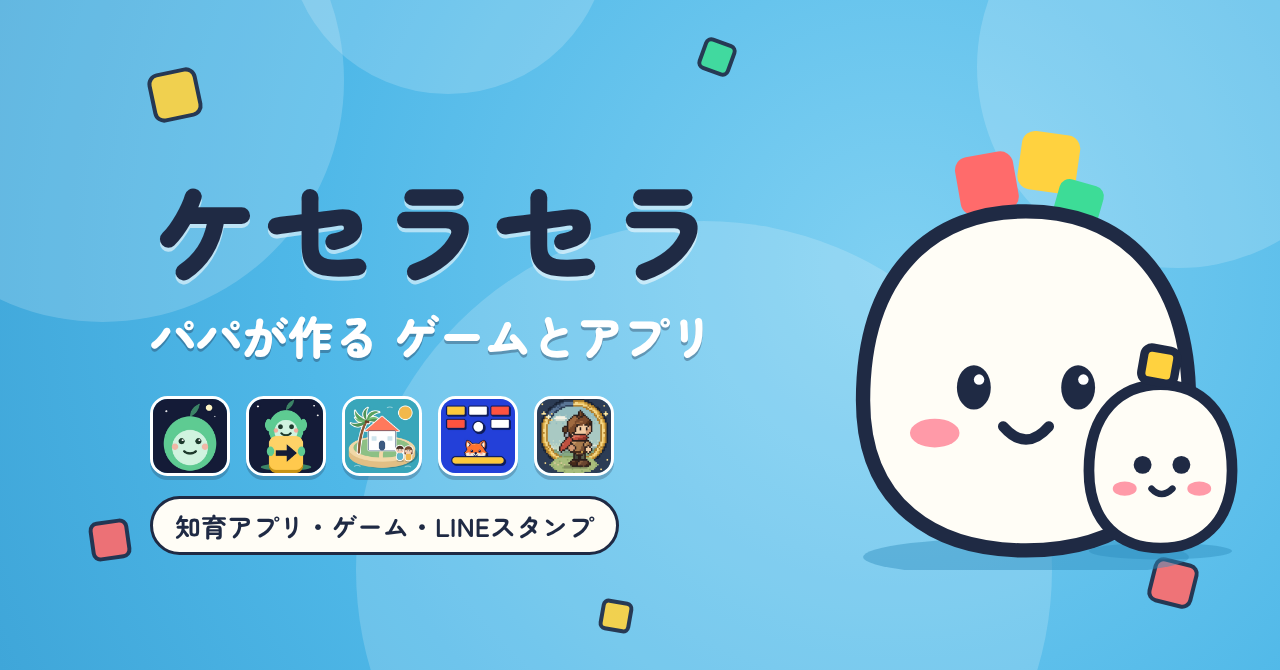
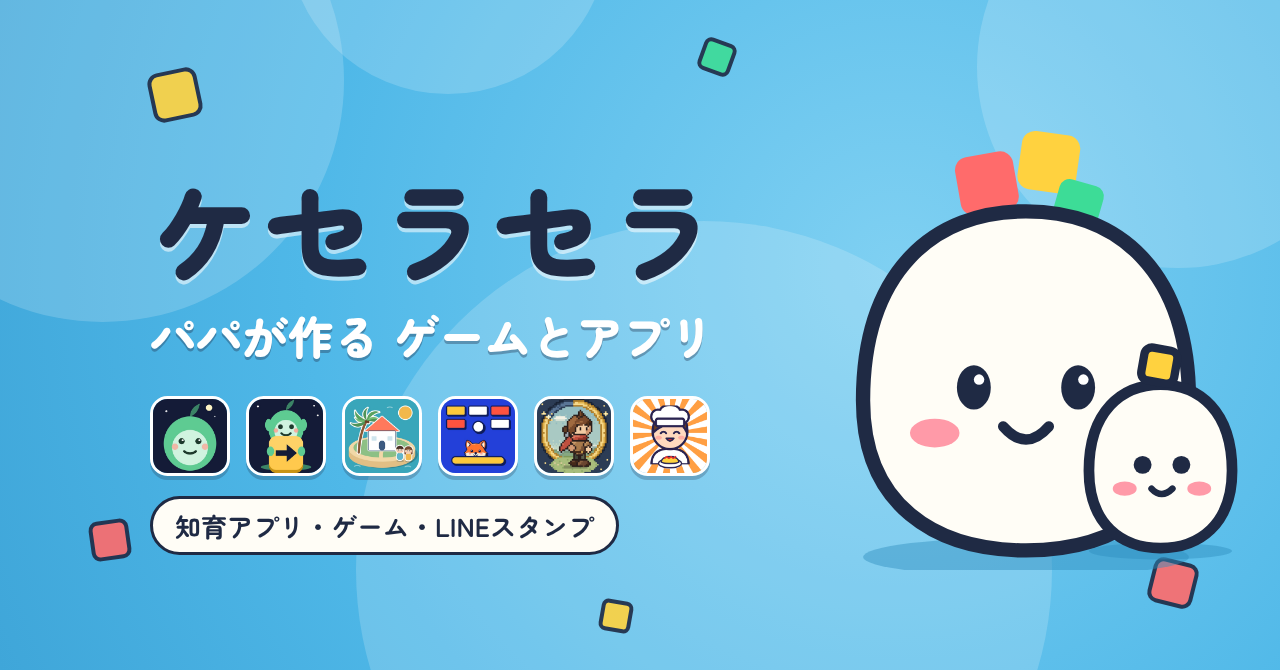
SNS headers: add Diner Street (6 apps)

Changed region(s): [[0.4688, 0.5672, 0.5625, 0.7164]]

diff --git a/sns-icons/header/h.html b/sns-icons/header/h.html
@@ -8,7 +8,7 @@
 .t h1{font-weight:900;color:#1F2A44;letter-spacing:.04em;text-shadow:0 4px 0 rgba(255,255,255,.55)}
 .t p{font-weight:900;color:#fff;text-shadow:0 3px 0 rgba(31,42,68,.35)}
 .icons{display:flex}.icons img{border-radius:22%;box-shadow:0 4px 0 rgba(31,42,68,.25);border:3px solid #fff}
-.sub{display:inline-block;background:#FFFDF6;color:#1F2A44;font-weight:700;border-radius:99px;border:3px solid #1F2A44}
+.sub{display:inline-block;white-space:nowrap;background:#FFFDF6;color:#1F2A44;font-weight:700;border-radius:99px;border:3px solid #1F2A44}
 .dot{position:absolute;border-radius:50%;background:#fff;opacity:.18}
 </style></head><body><div class="c" id="c"></div>
 <script>
@@ -20,15 +20,15 @@ const add=(h)=>c.insertAdjacentHTML('beforeend',h);
 const blocks=L=='x'?[[560,40,44,'#FFD23F',-12],[1010,410,38,'#FF6B6B',14],[930,60,30,'#3DDC97',20],[470,420,30,'#FF6B6B',-8],[1440,430,40,'#FFD23F',10]]
 :[[150,70,50,'#FFD23F',-12],[1150,560,46,'#FF6B6B',14],[700,40,34,'#3DDC97',20],[90,520,40,'#FF6B6B',-8],[600,600,32,'#FFD23F',10]];
 blocks.forEach(([x,y,z,col,r])=>add(`<div class="blk" style="left:${x}px;top:${y}px;width:${z}px;height:${z}px;background:${col};transform:rotate(${r}deg);border:4px solid #1F2A44"></div>`));
-const ic=['manabi','karakuri','tiny','bounce','aruquest'];
+const ic=['manabi','karakuri','tiny','bounce','aruquest','diner'];
 if(L=='x'){
  add(`<img src="sera.svg" style="position:absolute;left:1120px;top:70px;height:400px">`);
  add(`<img src="small.svg" style="position:absolute;left:1330px;top:255px;height:200px">`);
- add(`<div class="t" style="left:470px;top:105px;width:640px">
+ add(`<div class="t" style="left:470px;top:105px;width:700px">
  <h1 style="font-size:96px;line-height:1.05">ケセラセラ</h1>
  <p style="font-size:40px;margin:14px 0 22px">パパが作る ゲームとアプリ</p>
- <div class="icons" style="gap:14px">${ic.map(n=>`<img src="${n}-icon.png" width="68" height="68">`).join('')}
- <span class="sub" style="font-size:22px;padding:14px 20px;margin-left:6px;align-self:center">＋ LINEスタンプ</span></div></div>`);
+ <div class="icons" style="gap:12px">${ic.map(n=>`<img src="${n}-icon.png" width="60" height="60">`).join('')}
+ <span class="sub" style="font-size:21px;padding:14px 18px;margin-left:4px;align-self:center">＋ LINEスタンプ</span></div></div>`);
 }else{
  add(`<img src="sera.svg" style="position:absolute;left:850px;top:120px;height:450px">`);
  add(`<img src="small.svg" style="position:absolute;left:1080px;top:340px;height:220px">`);
